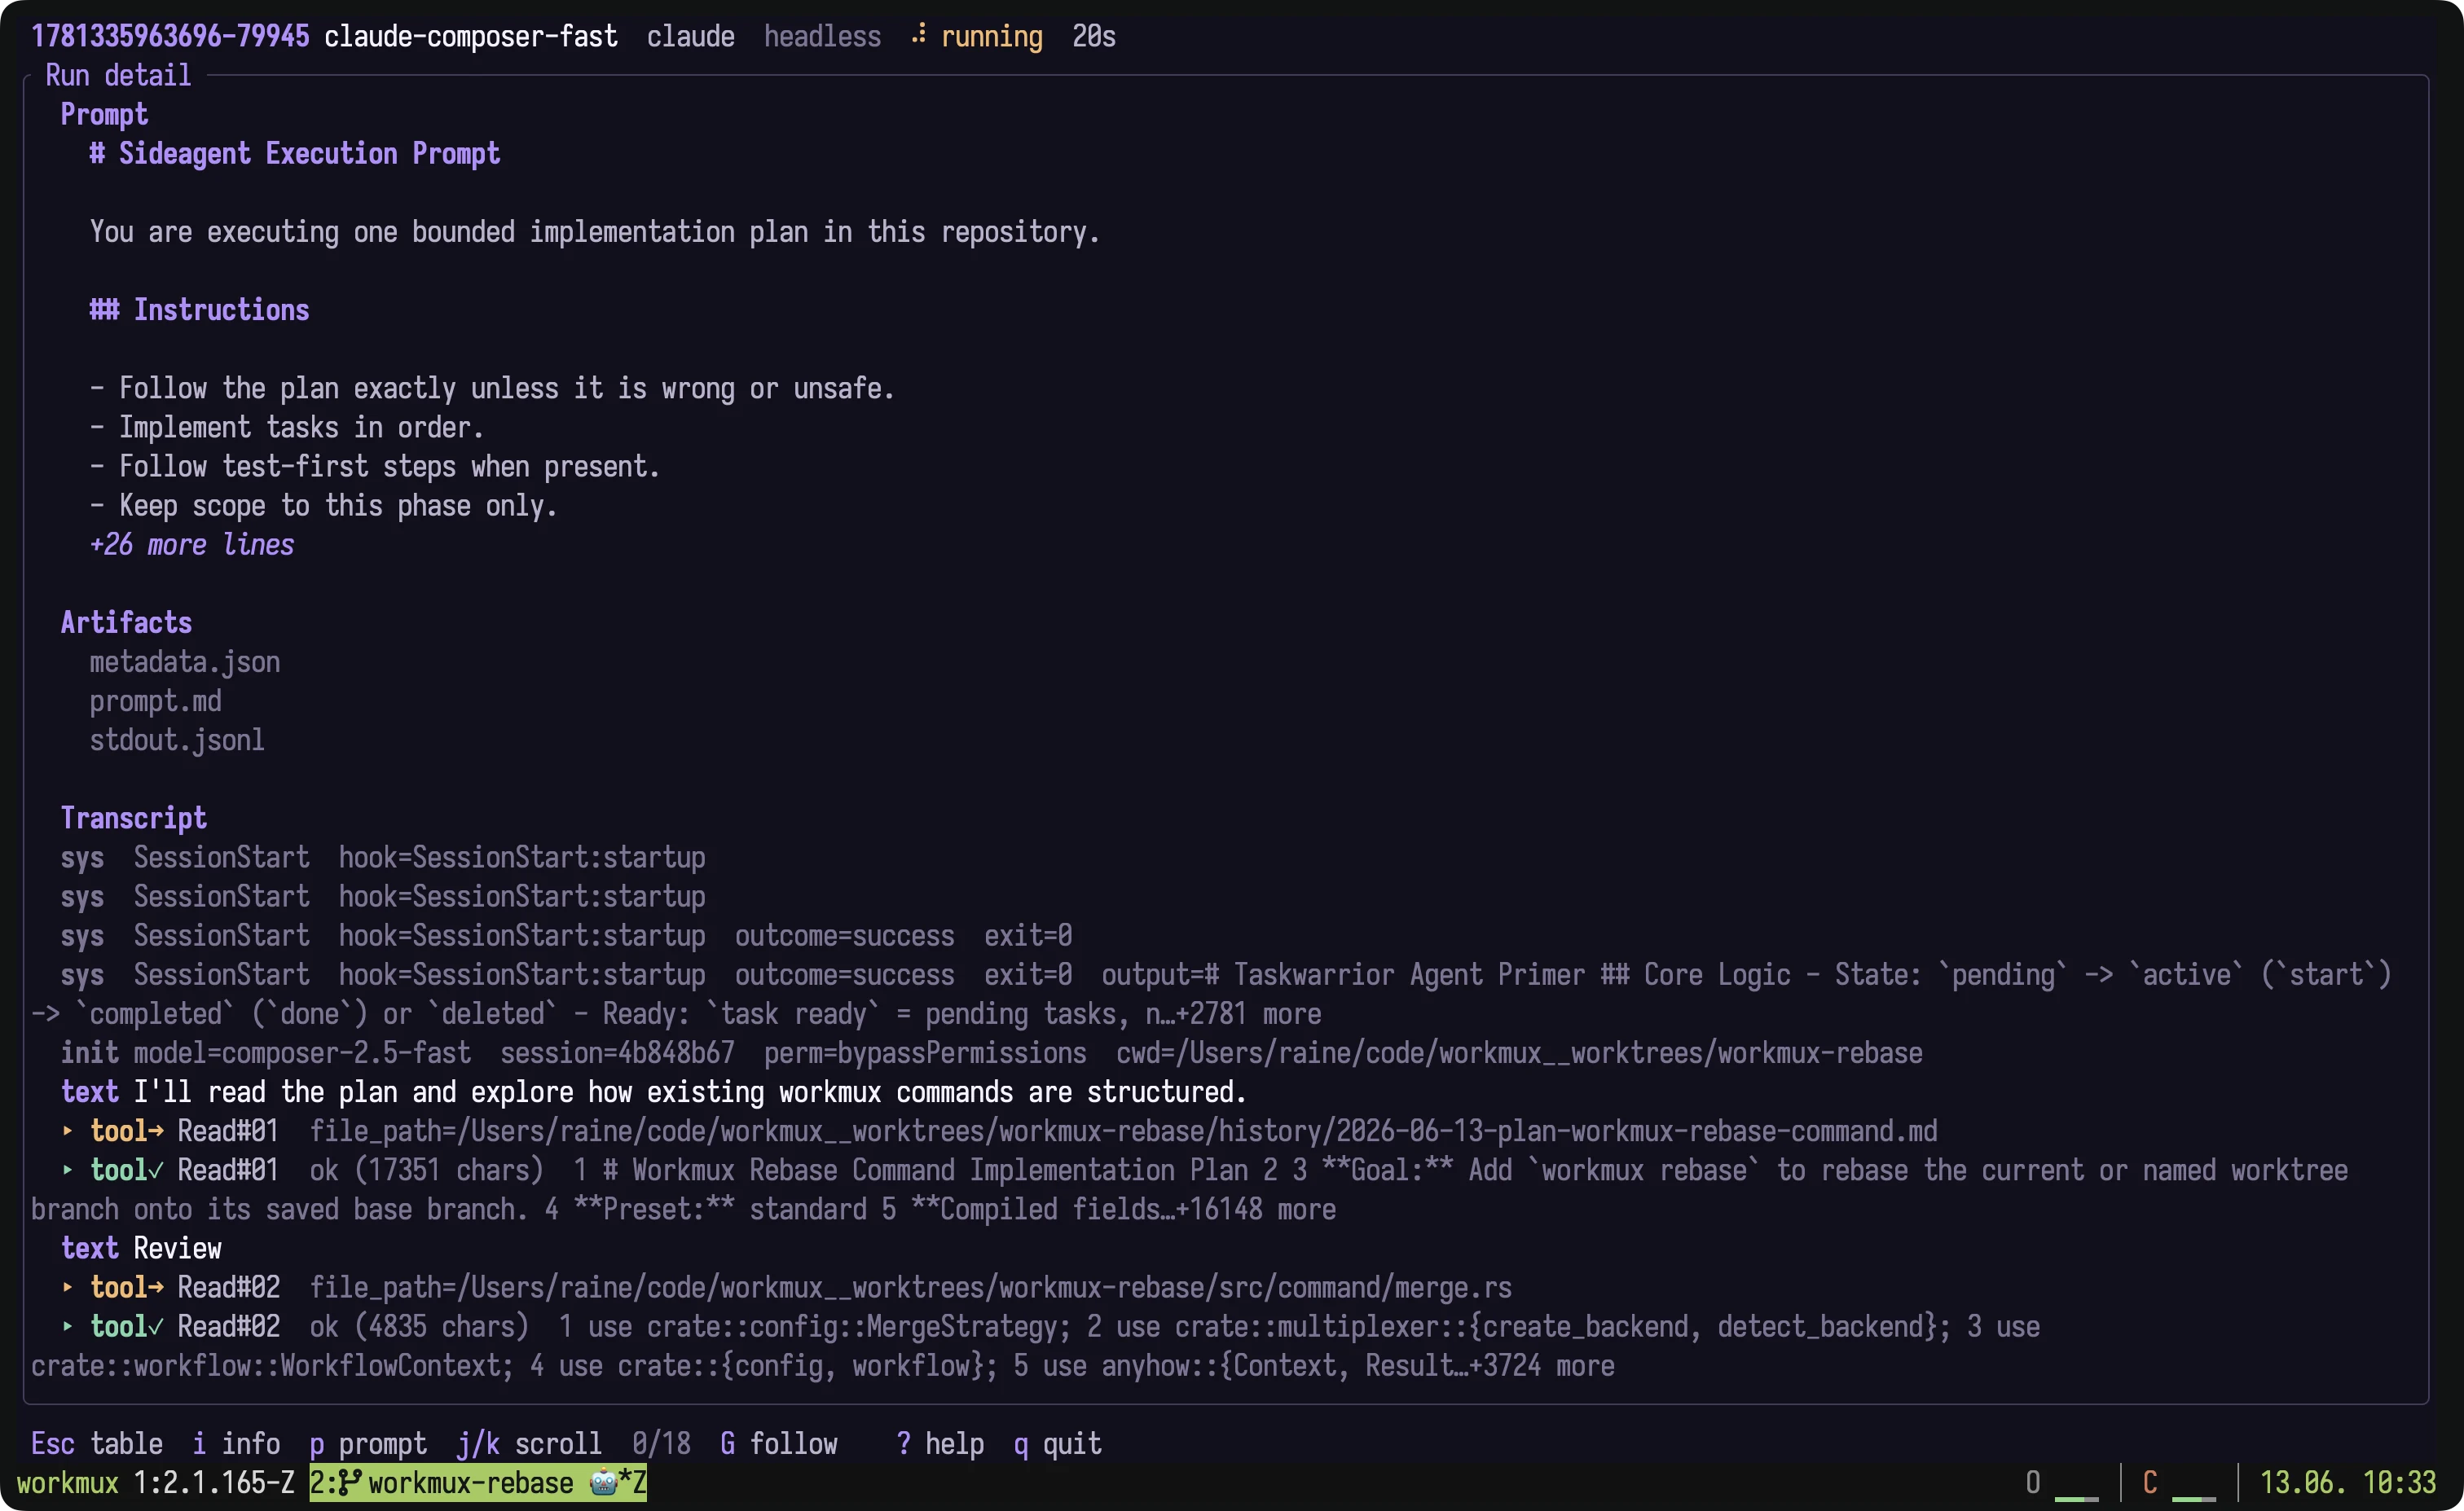
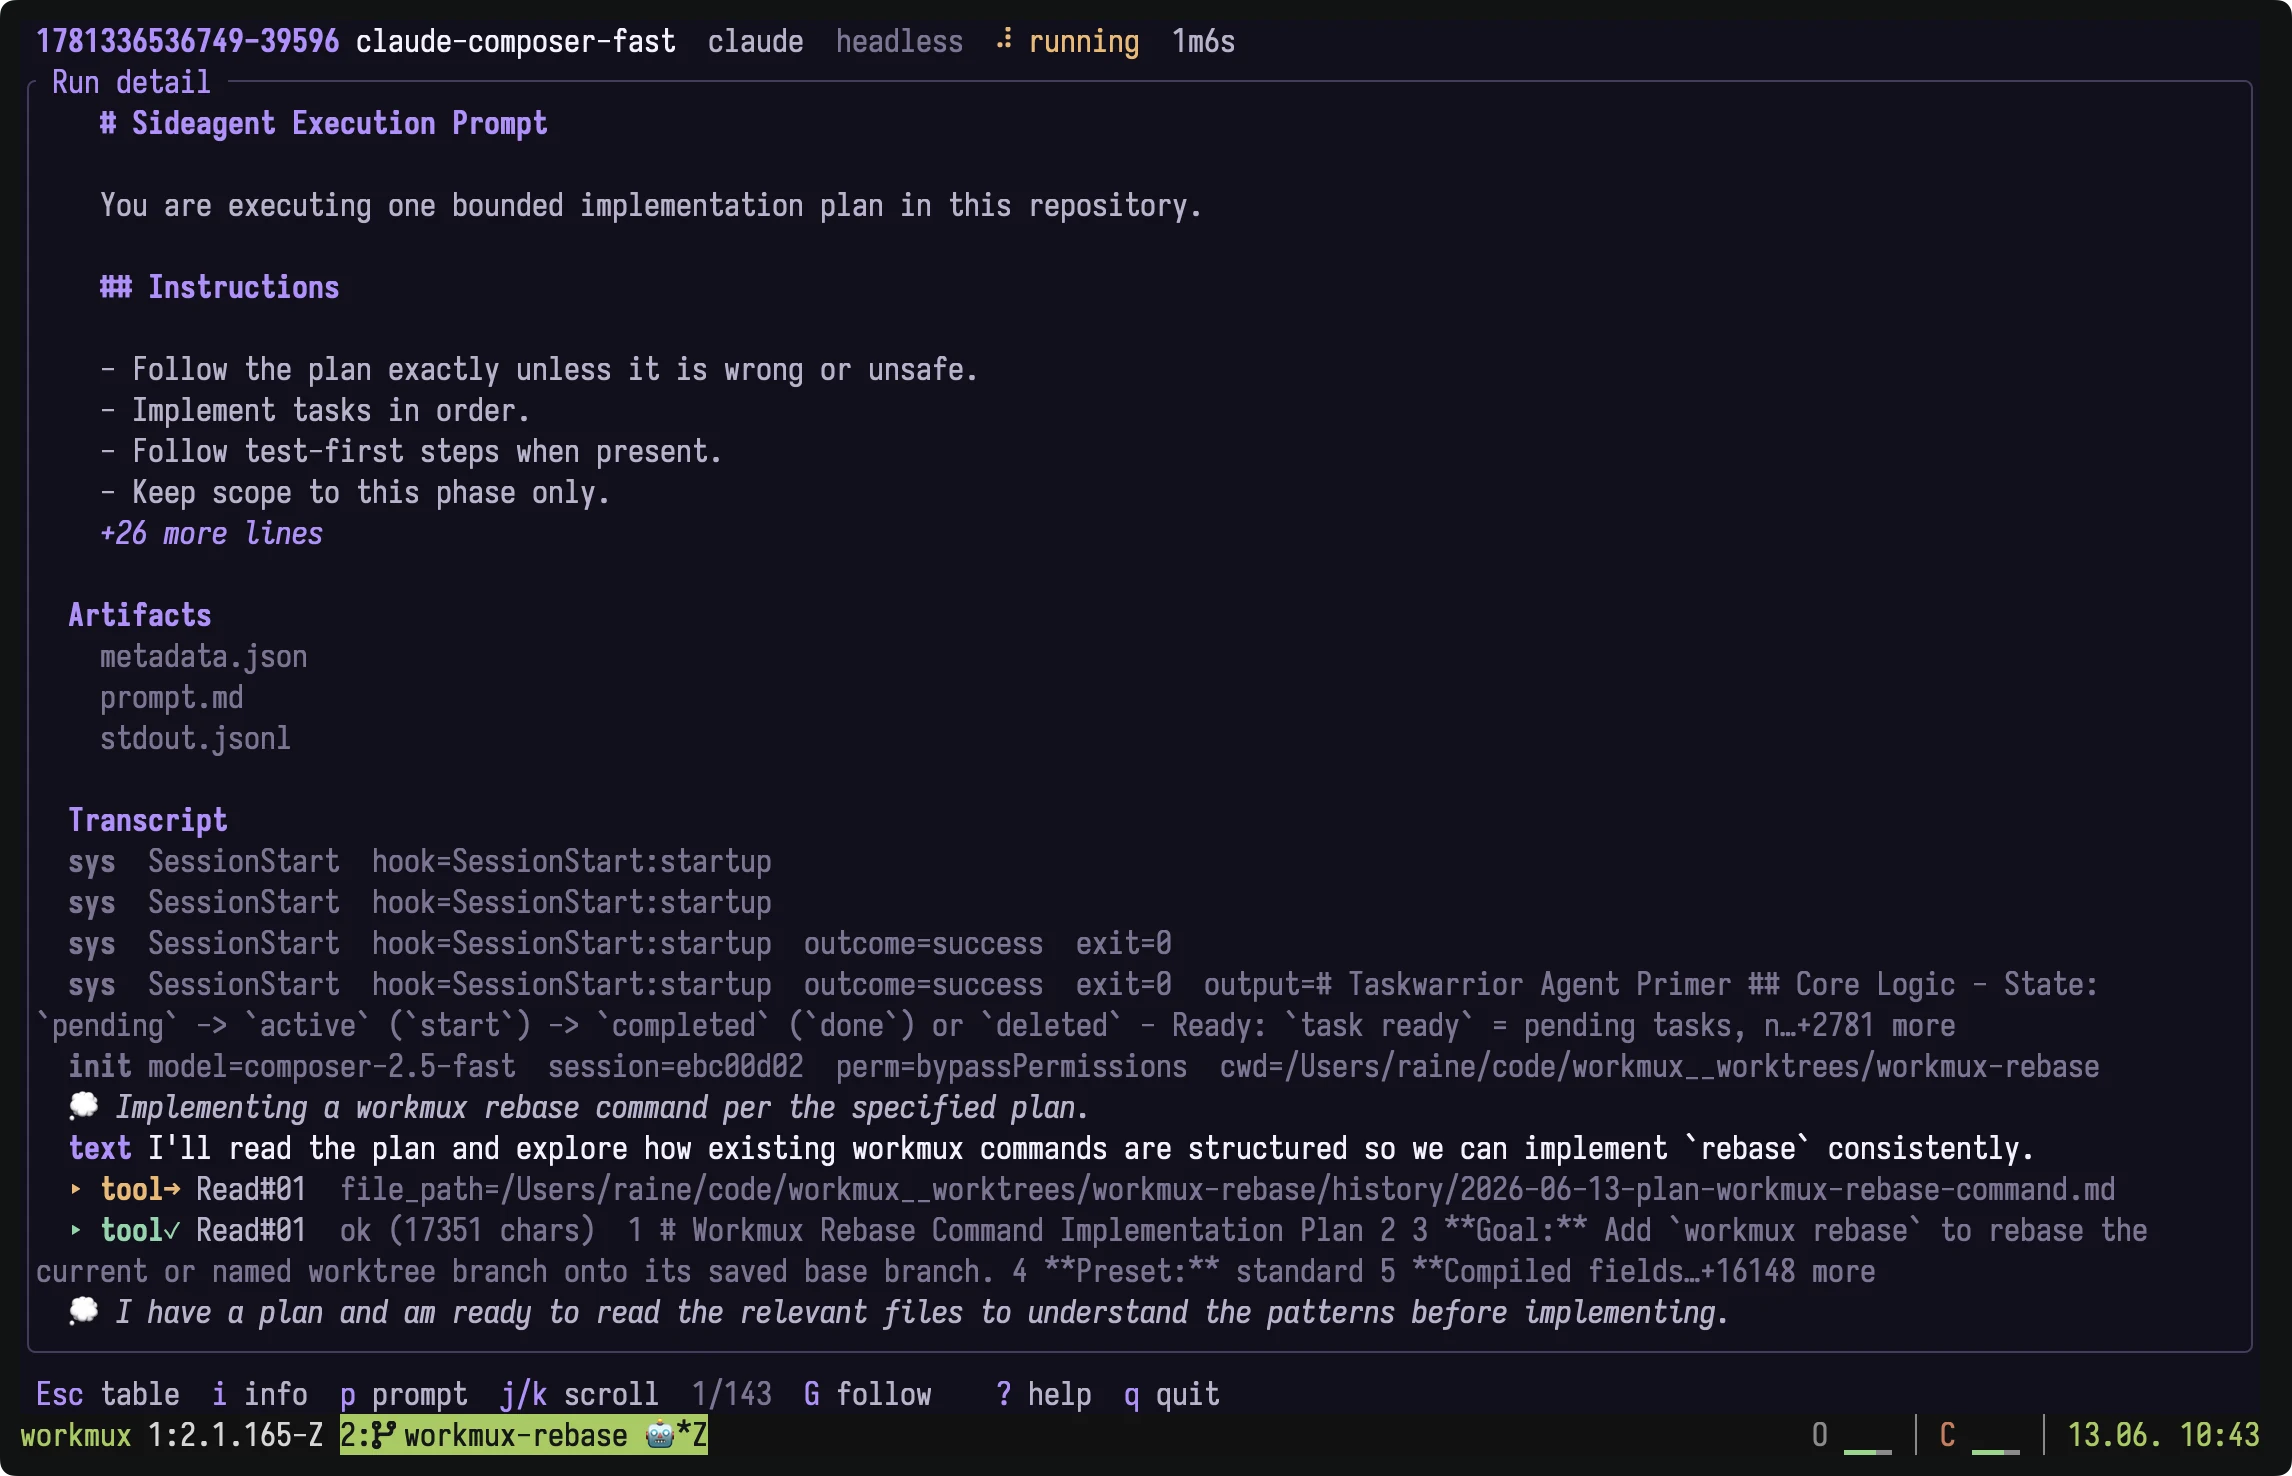
readme: update screenshots
Replace the introductory image with the monitor overview so the README leads with the current run archive interface.

Refresh the monitor detail screenshot and store both new images as WebP assets under meta.

diff --git a/README.md b/README.md
@@ -31,7 +31,7 @@ task opens in a new tmux pane or runs headlessly. When the run finishes, the
 host agent can inspect the diff, run checks, and continue the review in the
 original conversation.
 
-![sideagent opening a delegated implementation run in tmux](meta/sideagent-tmux-delegation-20260607-v2.webp)
+![sideagent monitor showing active and completed runs](meta/sideagent-monitor-overview-20260613.webp)
 
 ## What it does
 